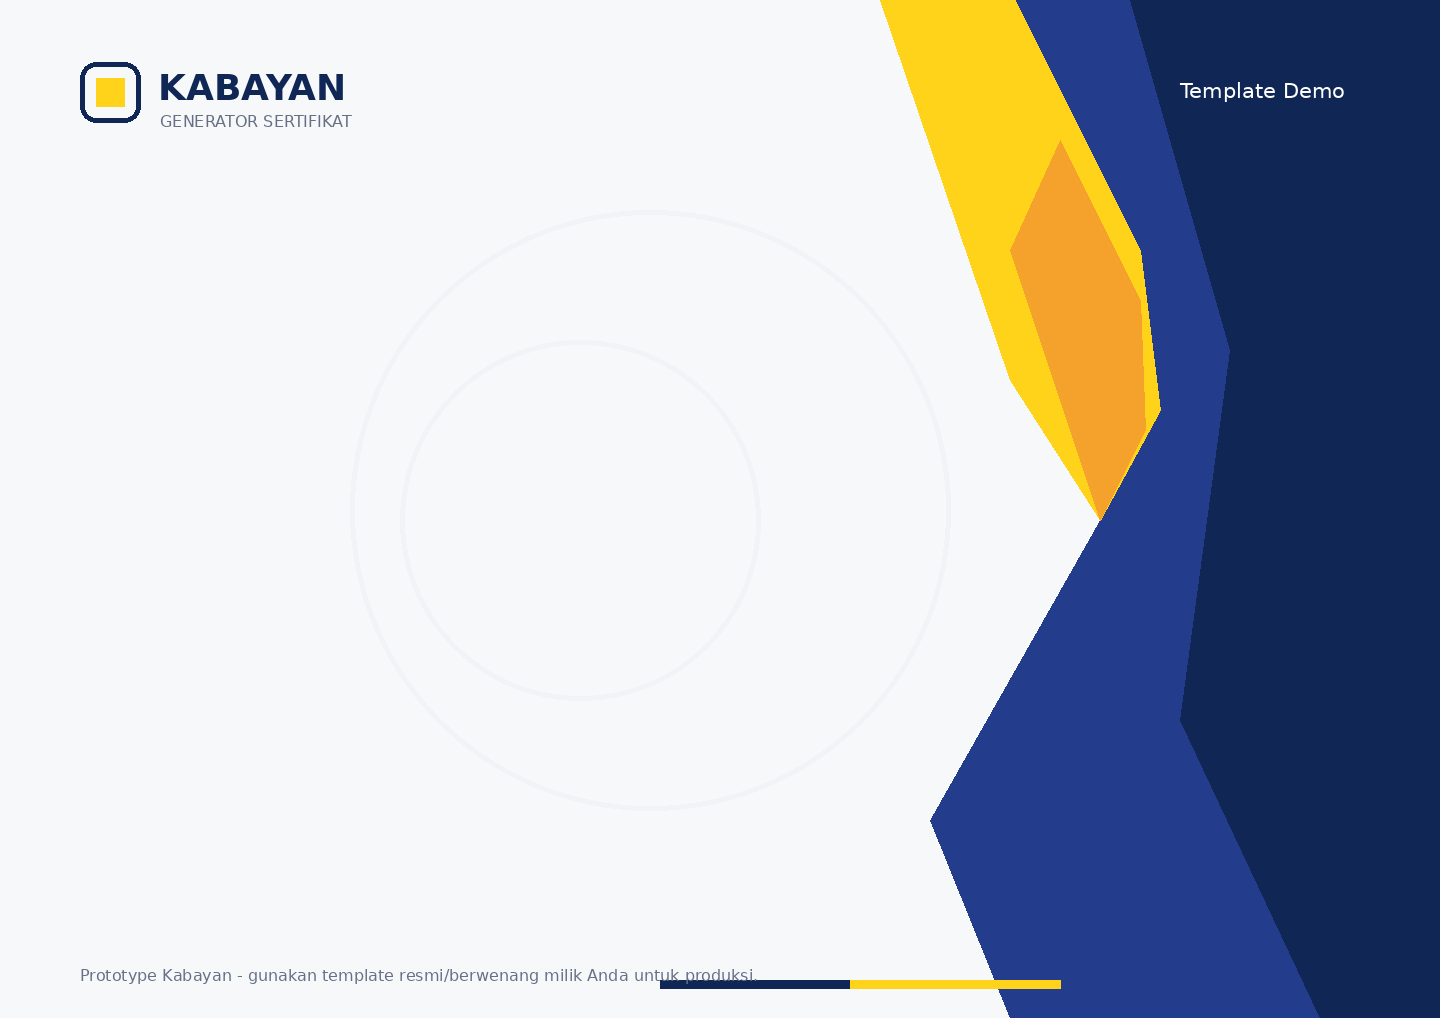
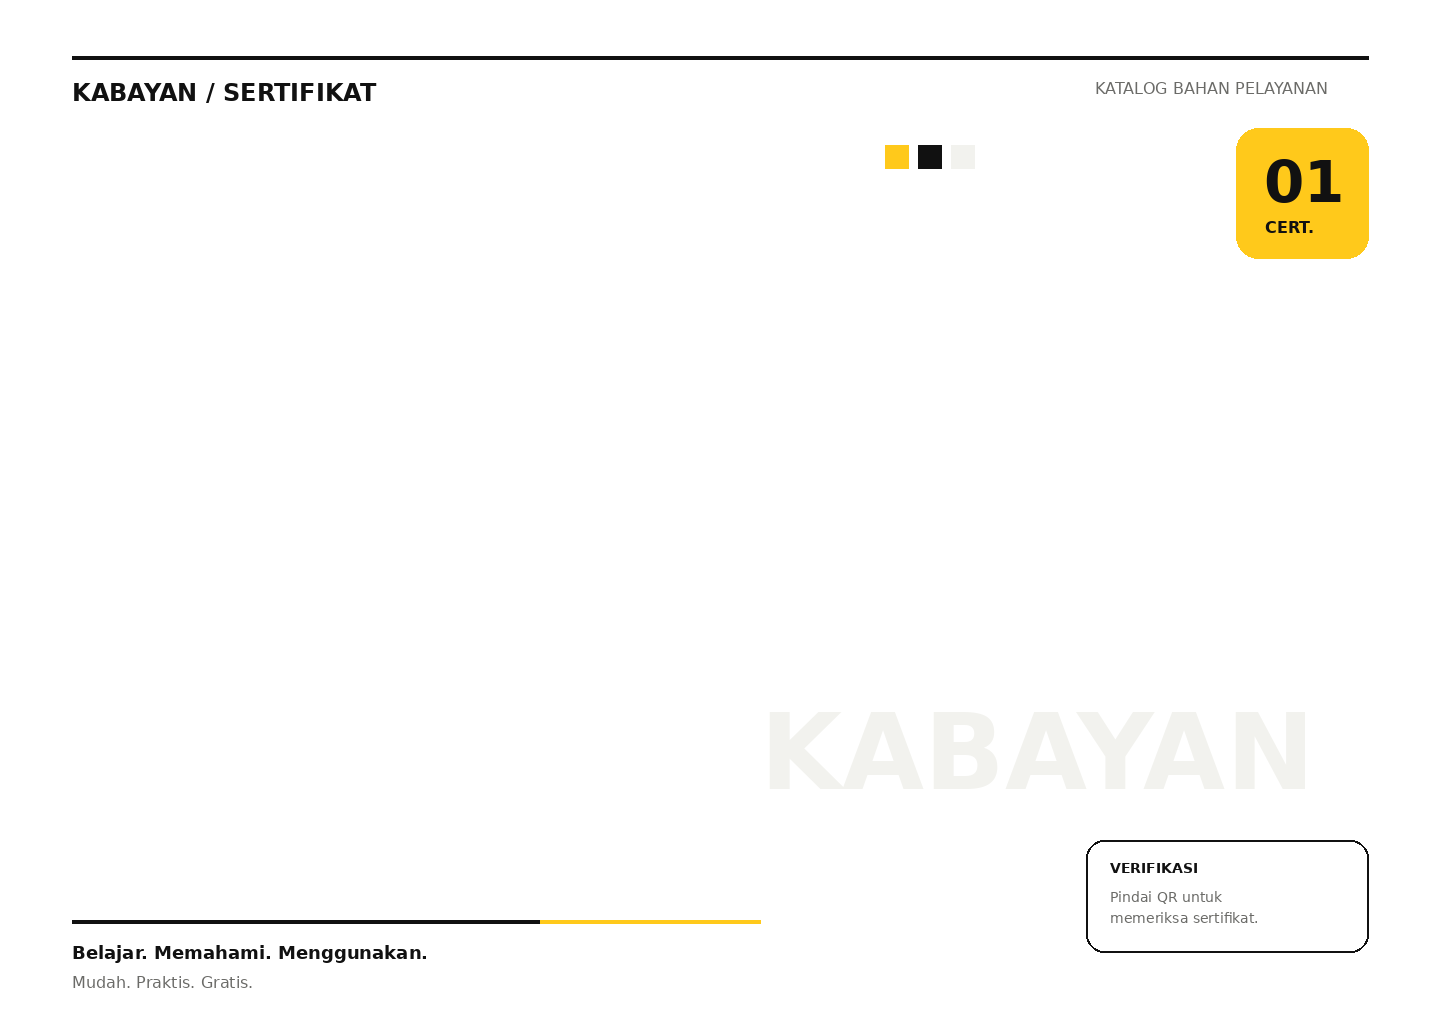
Add files via upload

diff --git a/sertifikat/index.html b/sertifikat/index.html
@@ -7,7 +7,7 @@
   <meta name="description" content="Generator sertifikat massal dari Excel. Preview, PDF gabungan, PDF per peserta dan ZIP.">
   <style>
     :root{
-      --ink:#102655;--blue:#243c8c;--yellow:#ffd31a;--bg:#f5f7fb;--card:#fff;
+      --ink:#111111;--blue:#0d2d57;--yellow:#ffc91b;--bg:#f6f6f2;--card:#fff;
       --muted:#667085;--line:#e4e7ec;--ok:#067647;--warn:#b54708;--danger:#b42318;
     }
     *{box-sizing:border-box}
@@ -20,11 +20,11 @@
     .badge{font-size:12px;padding:6px 10px;border-radius:999px;background:#eef2ff;color:var(--blue);font-weight:700}
     main{max-width:1440px;margin:0 auto;padding:32px}
     .hero{display:flex;align-items:flex-end;justify-content:space-between;gap:24px;margin-bottom:24px}
-    .hero h1{font-size:42px;line-height:1.05;margin:0 0 10px;color:var(--ink);letter-spacing:-.04em}
+    .hero h1{font-size:56px;line-height:.98;margin:0 0 14px;color:var(--ink);letter-spacing:-.055em}
     .hero p{margin:0;color:var(--muted);max-width:760px;font-size:17px}
     .layout{display:grid;grid-template-columns:420px 1fr;gap:24px;align-items:start}
     .stack{display:grid;gap:16px}
-    .card{background:var(--card);border:1px solid var(--line);border-radius:20px;padding:20px;box-shadow:0 8px 28px rgba(16,38,85,.04)}
+    .card{background:var(--card);border:1px solid var(--line);border-radius:18px;padding:20px;box-shadow:none}
     .card h2{font-size:17px;margin:0 0 6px;color:var(--ink)}
     .sub{font-size:13px;color:var(--muted);margin-bottom:16px;line-height:1.5}
     .drop{border:1.5px dashed #b8c3d9;border-radius:16px;padding:18px;text-align:center;background:#fafbff;cursor:pointer;transition:.2s}
@@ -88,8 +88,8 @@
 <main>
   <section class="hero">
     <div>
-      <h1>Satu Excel.<br>Ratusan sertifikat.</h1>
-      <p>Upload data peserta, cek preview, lalu hasilkan PDF per peserta, PDF gabungan, atau ZIP. Pemrosesan prototipe ini berjalan di browser.</p>
+      <h1>Sertifikat.<br>Lebih Praktis.</h1>
+      <p>Siapkan data di Excel, lakukan pengecekan, lalu hasilkan banyak sertifikat dalam satu alur yang lebih sederhana.</p>
     </div>
   </section>
 
@@ -217,15 +217,15 @@ let currentIndex = 0;
 let bgObjectUrl = null;
 
 const defaults = {
-  titleX:128,titleY:260,
-  numberX:128,numberY:315,
-  labelX:128,labelY:390,
-  nameX:128,nameY:445,
-  institutionX:128,institutionY:500,
-  detailX:128,detailY:548,
-  dateX:128,dateY:665,
-  qrX:128,qrY:760,
-  signerX:255,signerY:812
+  titleX:72,titleY:245,
+  numberX:72,numberY:304,
+  labelX:72,labelY:390,
+  nameX:72,nameY:468,
+  institutionX:72,institutionY:520,
+  detailX:72,detailY:590,
+  dateX:72,dateY:765,
+  qrX:1168,qrY:770,
+  signerX:72,signerY:820
 };
 let pos = {...defaults};
 
@@ -409,33 +409,33 @@ async function renderRecord(m){
   const showLabels=document.getElementById('showLabels').checked;
 
   if(showLabels){
-    ctx.fillStyle=gold;ctx.font='800 58px Inter, Arial, sans-serif';ctx.fillText('Sertifikat',pos.titleX,pos.titleY);
-    ctx.fillStyle=navy;ctx.font='750 30px Inter, Arial, sans-serif';ctx.fillText('Nomor : '+(m.nomor_sertifikat||'—'),pos.numberX,pos.numberY);
-    ctx.font='750 28px Inter, Arial, sans-serif';ctx.fillText('diberikan kepada',pos.labelX,pos.labelY);
+    ctx.fillStyle='#111111';ctx.font='800 72px Inter, Arial, sans-serif';ctx.fillText('Sertifikat.',pos.titleX,pos.titleY);
+    ctx.fillStyle='#6b6b68';ctx.font='700 22px Inter, Arial, sans-serif';ctx.fillText('NOMOR / '+(m.nomor_sertifikat||'—'),pos.numberX,pos.numberY);
+    ctx.fillStyle='#111111';ctx.font='700 18px Inter, Arial, sans-serif';ctx.fillText('DIBERIKAN KEPADA',pos.labelX,pos.labelY);
   } else {
     ctx.fillStyle=navy;ctx.font='750 30px Inter, Arial, sans-serif';
     if(m.nomor_sertifikat)ctx.fillText(m.nomor_sertifikat,pos.numberX,pos.numberY);
   }
 
   const name=String(m.nama||'Nama Penerima');
-  const nameSize=fitText(name,820,42,24,'800');
-  ctx.font=`800 ${nameSize}px Inter, Arial, sans-serif`;ctx.fillStyle=navy;
+  const nameSize=fitText(name,930,52,28,'800');
+  ctx.font=`800 ${nameSize}px Inter, Arial, sans-serif`;ctx.fillStyle='#111111';
   ctx.fillText(name,pos.nameX,pos.nameY);
-  const nameW=Math.min(ctx.measureText(name).width,820);
-  ctx.fillRect(pos.nameX,pos.nameY+7,nameW,2);
+  const nameW=Math.min(ctx.measureText(name).width,930);
+  ctx.fillStyle='#ffc91b';ctx.fillRect(pos.nameX,pos.nameY+10,nameW,5);ctx.fillStyle='#111111';
 
-  ctx.font='750 27px Inter, Arial, sans-serif';
+  ctx.font='700 24px Inter, Arial, sans-serif';
   if(m.instansi)ctx.fillText(String(m.instansi),pos.institutionX,pos.institutionY);
 
   const detail=String(m.detail_sertifikat||'Detail sertifikat / kegiatan.');
-  let detailSize=23, lines=wrapLines(detail,835,detailSize,'650',5);
-  if(lines.length>=5 && detail.length>260){detailSize=20;lines=wrapLines(detail,835,detailSize,'650',6)}
-  ctx.font=`650 ${detailSize}px Inter, Arial, sans-serif`;
+  let detailSize=22, lines=wrapLines(detail,860,detailSize,'600',5);
+  if(lines.length>=5 && detail.length>260){detailSize=19;lines=wrapLines(detail,860,detailSize,'600',6)}
+  ctx.font=`600 ${detailSize}px Inter, Arial, sans-serif`;
   lines.forEach((line,i)=>ctx.fillText(line,pos.detailX,pos.detailY+i*(detailSize+10)));
 
   if(m.tanggal){
     const y=pos.detailY+lines.length*(detailSize+10)+8;
-    ctx.font='700 23px Inter, Arial, sans-serif';ctx.fillText('pada '+String(m.tanggal),pos.dateX,Math.max(pos.dateY,y));
+    ctx.font='700 23px Inter, Arial, sans-serif';ctx.fillText('PELAKSANAAN / '+String(m.tanggal),pos.dateX,Math.max(pos.dateY,y));
   }
 
   const showQr=document.getElementById('showQr').checked;
@@ -443,17 +443,17 @@ async function renderRecord(m){
     const code=String(m.kode_verifikasi||'KBY-DEMO');
     const verify=document.getElementById('verifyBase').value+encodeURIComponent(code);
     try{
-      const qr=await makeQrCanvas(verify,110);
-      if(qr)ctx.drawImage(qr,pos.qrX,pos.qrY,110,110);
+      const qr=await makeQrCanvas(verify,92);
+      if(qr)ctx.drawImage(qr,pos.qrX,pos.qrY,92,92);
       ctx.fillStyle=navy;ctx.font='600 14px Inter, Arial, sans-serif';
-      ctx.fillText('QR verifikasi Kabayan',pos.qrX,pos.qrY+132);
-      ctx.fillText(code,pos.qrX,pos.qrY+153);
+      ctx.fillText('QR VERIFIKASI',pos.qrX,pos.qrY+111);
+      ctx.fillText(code,pos.qrX,pos.qrY+130);
     }catch(e){console.warn('QR gagal',e)}
   }
 
   if(m.penandatangan || m.jabatan){
     ctx.fillStyle=navy;
-    ctx.font='600 14px Inter, Arial, sans-serif';ctx.fillText('Penandatangan / pejabat:',pos.signerX,pos.signerY);
+    ctx.font='600 14px Inter, Arial, sans-serif';ctx.fillText('PENANDATANGAN',pos.signerX,pos.signerY);
     if(m.penandatangan){ctx.font='750 22px Inter, Arial, sans-serif';ctx.fillText(String(m.penandatangan),pos.signerX,pos.signerY+32)}
     if(m.jabatan){ctx.font='700 18px Inter, Arial, sans-serif';ctx.fillText(String(m.jabatan),pos.signerX,pos.signerY+60)}
   }

diff --git a/sertifikat/verifikasi.html b/sertifikat/verifikasi.html
@@ -1,21 +1,16 @@
 <!doctype html>
-<html lang="id">
-<head>
-<meta charset="utf-8"><meta name="viewport" content="width=device-width,initial-scale=1">
+<html lang="id"><head><meta charset="utf-8"><meta name="viewport" content="width=device-width,initial-scale=1">
 <title>Kabayan — Verifikasi Sertifikat</title>
 <style>
-body{margin:0;background:#f5f7fb;font-family:Inter,-apple-system,BlinkMacSystemFont,"Segoe UI",sans-serif;color:#101828}
-.wrap{max-width:720px;margin:70px auto;padding:24px}.card{background:#fff;border:1px solid #e4e7ec;border-radius:24px;padding:30px;box-shadow:0 18px 60px rgba(16,38,85,.08)}
-.brand{font-weight:850;color:#102655;font-size:20px}.ok{display:inline-block;margin:18px 0 8px;background:#ecfdf3;color:#067647;padding:7px 12px;border-radius:999px;font-weight:800;font-size:12px}
-h1{color:#102655;letter-spacing:-.03em}.code{font-family:ui-monospace,SFMono-Regular,Menlo,monospace;background:#f8fafc;border-radius:12px;padding:14px;word-break:break-all}
-.note{margin-top:22px;background:#fff7ed;color:#9a3412;padding:14px;border-radius:14px;font-size:13px;line-height:1.5}
-</style></head>
-<body><div class="wrap"><div class="card">
-<div class="brand">Kabayan • Verifikasi Sertifikat</div>
-<span class="ok">MODE PROTOTIPE</span>
-<h1>QR berhasil dibaca</h1>
-<p>Kode verifikasi:</p><div class="code" id="code">—</div>
-<div class="note">Halaman ini belum terhubung ke database. Pada versi produksi, kode di atas akan dicocokkan dengan tabel sertifikat di Supabase dan menampilkan nama, nomor sertifikat, kegiatan, tanggal, serta status valid/tidak valid.</div>
-</div></div>
-<script>const p=new URLSearchParams(location.search);document.getElementById('code').textContent=p.get('id')||'Kode tidak tersedia';</script>
-</body></html>
+:root{--ink:#111;--yellow:#ffc91b;--bg:#f6f6f2;--line:#e5e5df}
+*{box-sizing:border-box}body{margin:0;background:var(--bg);font-family:Inter,-apple-system,BlinkMacSystemFont,"Segoe UI",sans-serif;color:var(--ink)}
+.wrap{max-width:820px;margin:0 auto;padding:64px 24px}.rule{height:3px;background:#111;margin-bottom:18px}
+.kicker{font-size:13px;font-weight:800;letter-spacing:.08em}.card{background:#fff;border:1px solid var(--line);border-radius:22px;padding:34px;margin-top:28px}
+.num{display:inline-grid;place-items:center;width:92px;height:92px;border-radius:18px;background:var(--yellow);font-size:34px;font-weight:900}
+h1{font-size:52px;line-height:1;letter-spacing:-.05em;margin:26px 0 12px}.muted{color:#6b6b68;line-height:1.6}
+.code{margin-top:18px;font-family:ui-monospace,SFMono-Regular,Menlo,monospace;background:#f6f6f2;border-radius:12px;padding:14px;word-break:break-all}
+.note{margin-top:22px;border-top:1px solid var(--line);padding-top:18px;font-size:13px;color:#6b6b68;line-height:1.6}
+</style></head><body><div class="wrap"><div class="rule"></div><div class="kicker">KABAYAN / VERIFIKASI SERTIFIKAT</div>
+<div class="card"><div class="num">01</div><h1>Sertifikat.<br>Terverifikasi.</h1><p class="muted">Kode verifikasi yang dibaca dari QR:</p>
+<div class="code" id="code">—</div><div class="note">Mode prototipe. Versi produksi akan mencocokkan kode ini dengan database sertifikat dan menampilkan nama, nomor, kegiatan, tanggal, serta status valid/tidak valid.</div></div></div>
+<script>const p=new URLSearchParams(location.search);document.getElementById('code').textContent=p.get('id')||'Kode tidak tersedia';</script></body></html>
